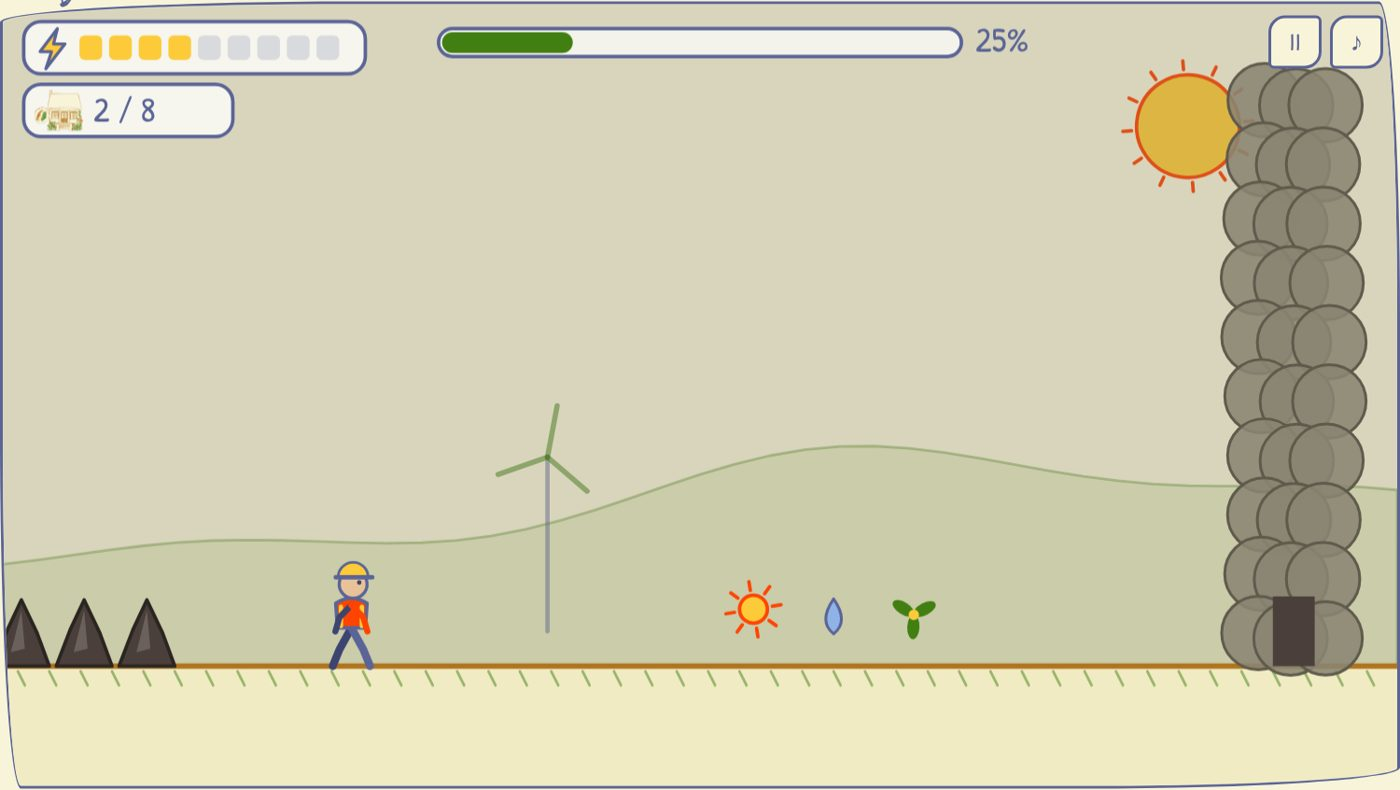
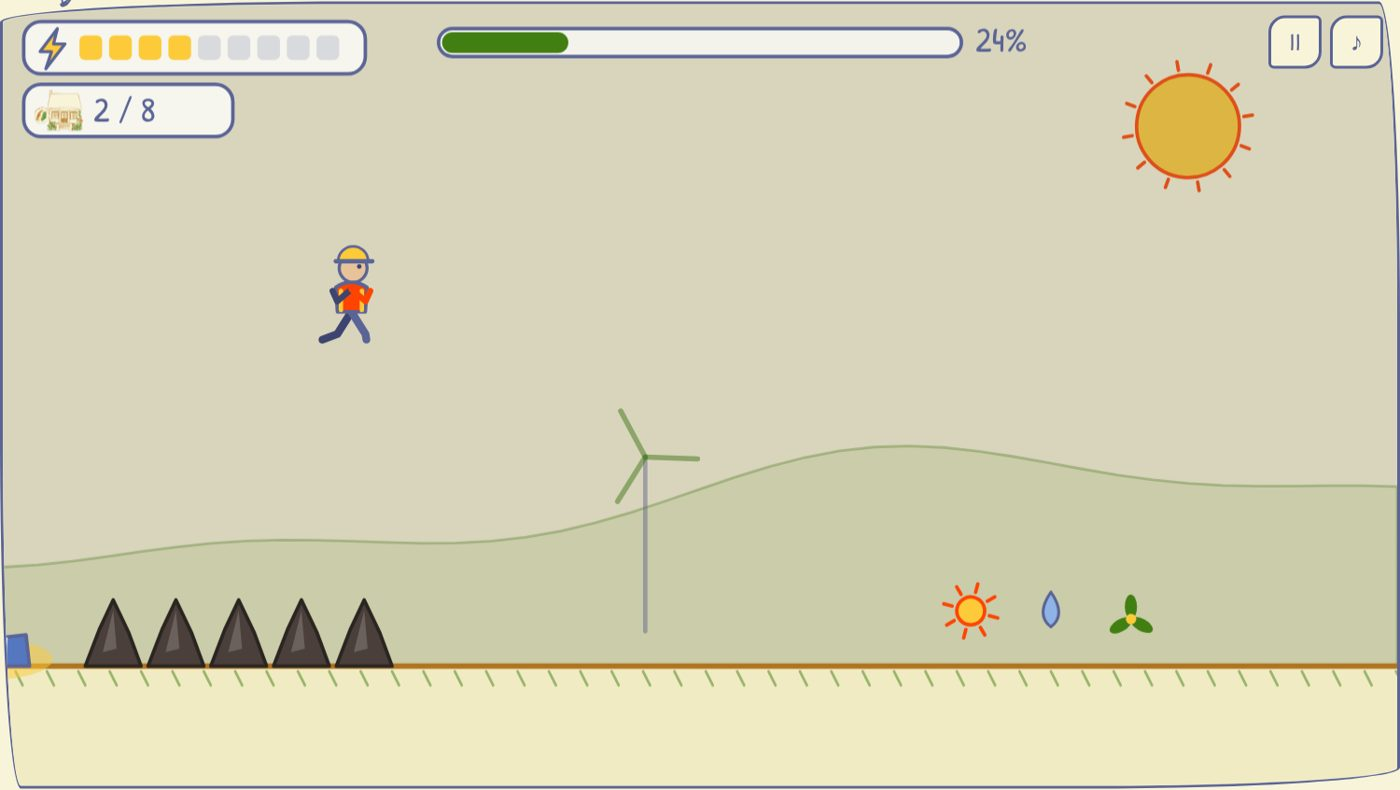
Make English the default language again; fix Marathon block patterns
- Game opens in English (Russian stays as a menu toggle); README in English
- English screenshots for the README
- Marathon: wider blocks before spikes so landing on them is possible
- Autopilot jumps up steps a little earlier

Claude-Session: https://claude.ai/code/session_01WVEpnf3J4V1ut3vL5bSijb

diff --git a/index.html b/index.html
@@ -1,5 +1,5 @@
 <!doctype html>
-<html lang="ru">
+<html lang="en">
 <head>
 <meta charset="utf-8">
 <meta name="viewport" content="width=device-width, initial-scale=1, viewport-fit=cover">
@@ -241,11 +241,12 @@ const FACTS = [
    Save
    ========================================================= */
 const SAVE_KEY = 'light-dash-v1';
-const save = { lang: 'ru', mute: false, skin: 'anya', practice: false, lv: [{}, {}, {}], ach: [],
+const save = { lang: 'en', langChosen: false, mute: false, skin: 'anya', practice: false, lv: [{}, {}, {}], ach: [],
   stats: { energy: 0, walls: 0, attempts: 0, houses: 0, bestM: 0, skinChanged: 0 } };
 try {
   const s = JSON.parse(localStorage.getItem(SAVE_KEY));
   if (s) { Object.assign(save, s); save.stats = Object.assign({ energy: 0, walls: 0, attempts: 0, houses: 0, bestM: 0, skinChanged: 0 }, s.stats); save.lv = [0, 1, 2].map(i => (s.lv && s.lv[i]) || {}); }
+  if (!save.langChosen) save.lang = 'en';
 } catch (e) {}
 const persist = () => { try { localStorage.setItem(SAVE_KEY, JSON.stringify(save)); } catch (e) {} };
 const t = k => T[save.lang][k] ?? k;
@@ -401,12 +402,12 @@ function endlessBuilder() {
     if (r < .16) this.spikes(1 + Math.floor(Math.random() * 3)).gap(g());
     else if (r < .28) this.energy(3).gap(g());
     else if (r < .38) this.pit(130 + Math.floor(Math.random() * 50)).gap(g());
-    else if (r < .48) { this.block(130, 45 + Math.floor(Math.random() * 30)).gap(0).spikes(2).gap(g()); }
+    else if (r < .48) { this.block(280, 45 + Math.floor(Math.random() * 30)).gap(0).spikes(2).gap(g()); }
     else if (r < .58) this.cloud(110 + Math.floor(Math.random() * 30)).gap(g());
     else if (r < .66) { this.energy(2).gap(100).wall().gap(g()); }
     else if (r < .74) { this.pad().gap(40).spikes(4).gap(g()); }
     else if (r < .82) { this.pit(300); this.o.push({ t: 'orb', x: this.x - 300 + 115, y: G - 150, r: 18 }); this.gap(g()); }
-    else if (r < .9) { this.block(120, 45).block(120, 90).gap(0).spikes(2).gap(g()); }
+    else if (r < .9) { this.block(210, 45).block(210, 90).gap(0).spikes(2).gap(g()); }
     else { this.spikes(2).gap(Math.round(v * .8)).spikes(2).gap(g()); }
   };
   return b;
@@ -570,7 +571,7 @@ function autopilot() {
       if (g.b < p.x - 14) continue;
       if (g.a > p.x + 400) break;
       if (g.kind === 'step') {
-        if (g.top < p.y - 4) { const rise = p.y - g.top; const lead = v * (0.05 + rise / 650); if (g.a - front < lead && g.a - front > -4) a.up = true; }
+        if (g.top < p.y - 4) { const rise = p.y - g.top; const lead = v * (0.08 + rise / 520); if (g.a - front < lead && g.a - front > -4) a.up = true; }
         continue;
       }
       if (g.base !== G && p.y !== g.base) continue;
@@ -940,7 +941,7 @@ function menu() {
       <span><kbd>→</kbd>${t('kr')}</span><span><kbd>←</kbd>${t('kl')}</span>
     </div>`);
   on('#mPlay', levels); on('#mSkins', skins); on('#mAch', achievements);
-  on('#mLang', () => { save.lang = save.lang === 'ru' ? 'en' : 'ru'; persist(); applyLang(); menu(); });
+  on('#mLang', () => { save.lang = save.lang === 'ru' ? 'en' : 'ru'; save.langChosen = true; persist(); applyLang(); menu(); });
 }
 
 function levels() {
@@ -1121,6 +1122,16 @@ function applyLang() {
 
 /* Test hook: run a level with the autopilot, without drawing */
 window.__lightDash = {
+  simulateEndless() {
+    const keep = { demo, endless, lvl, run, state };
+    demo = true; endless = true; run = null; newRun(false);
+    let n = 0;
+    while (run.p.alive && n < 120 * 300) { step(STEP, autopilot()); n++; }
+    const p = run.p, near = lvl.objs.filter(o => Math.abs(o.x - p.x) < 260 && o.t !== 'energy').map(o => o.t + '@' + Math.round(o.x - p.x) + (o.w ? '/' + o.w : '') + (o.top ? '^' + (G - o.top) : ''));
+    const res = { m: Math.floor(p.x / 50), y: Math.round(G - p.y), speed: Math.round(run.speed), near: near.join(' ') };
+    demo = keep.demo; endless = keep.endless; lvl = keep.lvl; run = keep.run; state = keep.state;
+    return res;
+  },
   autoplay(v) { autoPlay = !!v; },
   simulate(i, jitter = 0) {
     const keep = { demo, endless, lvl, run, state };

diff --git a/README.md b/README.md
@@ -2,13 +2,12 @@
 
 # ✦ Light Dash ✦
 
-### Раннер про чистую энергию для всех · A runner about clean energy for everyone
+### A runner game about clean energy for everyone
 
 **SDG 7: Affordable and clean energy**
 
-**[▶ Играть / Play](https://n1x-plut0.github.io/sdg-7-/)**
+**[▶ Play in your browser](https://n1x-plut0.github.io/sdg-7-/)**
 
-*Без скачивания и регистрации. Работает на компьютере и на телефоне.*
 *No download, no sign-up. Works on a laptop or a phone.*
 
 <img src="assets/dash-play.jpg" alt="Light Dash: a runner in a hard hat races past dark houses toward a tall wall of coal smog, with sun, water and wind energy to collect" width="820">
@@ -17,37 +16,37 @@
 
 ---
 
-## Беги. Собирай энергию. Зажигай свет.
+## Run. Collect energy. Light up homes.
 
-Около **685 миллионов человек** в мире до сих пор живут без электричества.
-Твой бегун мчится через деревни, холмы и город. Собирай энергию солнца, ветра и воды,
-отдавай её домам без света и пробивайся сквозь угольный смог.
-**Чем больше домов горит, тем чище небо.**
+About **685 million people** in the world still live without electricity.
+Your runner races through villages, hills and a city. Collect energy from the sun, wind and water,
+give it to homes in the dark, and dash through coal smog.
+**The more homes glow, the clearer the sky gets.**
 
-Это и есть Цель устойчивого развития ООН № 7:
-*«Обеспечить доступ к недорогой, надёжной, устойчивой и современной энергии для всех»* к 2030 году.
+That's the UN's Sustainable Development Goal 7:
+*"Ensure access to affordable, reliable, sustainable and modern energy for all"* by 2030.
 
-## Управление стрелками
+## Arrow-key controls
 
-| Клавиша | Что делает |
+| Key | What it does |
 |:---:|---|
-| **↑** (или пробел) | Прыжок. Держи, чтобы прыгать снова. Нажми на жёлтом солнышке в воздухе, чтобы прыгнуть ещё раз. |
-| **↓** | Присесть под облако смога. В воздухе: быстро упасть. |
-| **→** | Рывок сквозь стену смога. Стоит 1 ⚡. |
-| **←** | Зажечь дом рядом с тобой. Стоит 1 ⚡. |
+| **↑** (or Space) | Jump. Hold to keep jumping. Press it on a yellow sun in the air to jump again. |
+| **↓** | Duck under a smog cloud. In the air: drop fast. |
+| **→** | Dash through a smog wall. Costs 1 ⚡. |
+| **←** | Light the home next to you. Costs 1 ⚡. |
 
-На телефоне под экраном есть большие кнопки со стрелками.
+On a phone, use the big arrow buttons under the screen.
 
-## Что внутри
+## What's inside
 
-- **3 уровня по целям SDG 7:** 7.1 «Деревня без света», 7.2 «Ветреные холмы», 7.3 «Умный город».
-- **Марафон 2030:** бесконечный забег. Сможешь пробежать 2030 метров?
-- **8 персонажей:** Аня, Тимур, Инженер Ли, Учёная Амара, Велокурьер Нико, Ночная смена, Солнечная Зара и Ватт, лампочка из нашей презентации.
-- **13 ачивок,** которые открывают новых персонажей.
-- **9 звёзд-фактов,** спрятанных в уровнях. Каждая открывает настоящий факт о SDG 7.
-- **Тренировка:** возрождение на флажках, чтобы спокойно выучить уровень.
-- **Демо в меню:** пока ты в меню, бегун сам проходит уровень на фоне.
-- Русский и английский языки.
+- **3 levels based on SDG 7 targets:** 7.1 "Village in the dark", 7.2 "Windy hills", 7.3 "Smart city".
+- **Marathon 2030:** an endless run. Can you make it 2030 meters?
+- **8 runners:** Anya, Timur, Engineer Li, Scientist Amara, Courier Niko, Night shift, Sunny Zara, and Watt, the light bulb from our presentation.
+- **13 achievements** that unlock new runners.
+- **9 fact stars** hidden in the levels. Each one reveals a real fact about SDG 7.
+- **Practice mode:** respawn at checkpoint flags while you learn a level.
+- **Menu demo:** while you're in the menu, a runner plays the level in the background.
+- English and Russian.
 
 <div align="center">
 <img src="assets/dash-skins.jpg" alt="The runner selection screen with eight hand-drawn characters" width="600">
@@ -55,48 +54,37 @@
 <img src="assets/dash-marathon.jpg" alt="Marathon mode: a lit house glows warmly, and the sky is clear of smog" width="600">
 </div>
 
-## Факты из игры
+## Facts from the game
 
-- Около 80% людей без электричества живут в Африке южнее Сахары.
-- Около 2,1 миллиарда человек готовят еду на дровах, угле или керосине.
-- С 2010 по 2020 год солнечное электричество подешевело примерно на 90%.
-- LED-лампа тратит примерно на 75–80% меньше электричества, чем лампа накаливания.
+- About 80% of people without electricity live in sub-Saharan Africa.
+- About 2.1 billion people cook with wood, coal or kerosene.
+- From 2010 to 2020, electricity from solar panels got about 90% cheaper.
+- An LED bulb uses about 75–80% less electricity than an old incandescent bulb.
 
-…и ещё 5 фактов ждут тебя в уровнях.
-
----
-
-## English
-
-**Run. Collect energy. Light up homes.** About 685 million people still live without electricity.
-Your runner races through villages, hills and a city. Collect energy from sun, wind and water,
-give it to homes in the dark, and dash through coal smog. The more homes glow, the clearer the sky.
-
-**Arrow keys:** ↑ jump (and bounce off suns in the air), ↓ duck under smog or drop fast, → dash through smog walls (1 ⚡), ← light the home next to you (1 ⚡).
-
-3 levels based on SDG 7 targets, an endless Marathon 2030 mode, 8 runners to unlock, 13 achievements and 9 hidden fact stars.
+…and 5 more facts are waiting in the levels.
 
 ---
 
-## Ещё одна игра: Light the Valley
+## Another game: Light the Valley
 
-Наша первая игра: спокойная стратегия, где ты строишь солнечные, ветряные и гидростанции для долины с 2021 по 2030 год.
-**[▶ Играть в Light the Valley](https://n1x-plut0.github.io/sdg-7-/valley.html)**
+Our first game is a calm strategy game: build solar, wind and hydro power for a valley from 2021 to 2030.
+**[▶ Play Light the Valley](https://n1x-plut0.github.io/sdg-7-/valley.html)**
 
 <img src="assets/promo-play.jpg" alt="Light the Valley: a hand-drawn map with solar farms, wind turbines and homes" width="520">
 
-## Как запустить у себя
+## Play locally
 
-Скачай или склонируй репозиторий и открой `index.html` в браузере. Больше ничего не нужно.
+Download or clone this repo and open `index.html` in any browser. That's it.
 
-## Шрифты
+## Fonts
 
-Игры оформлены как наша презентация: **Biro Script Plus** для заголовков и **Linotype Feltpen** для текста.
-Это платные шрифты, поэтому их файлов **нет** в репозитории. Если шрифты установлены на компьютере,
-игра использует их сама. Можно также положить лицензионные файлы в `assets/fonts/`
-(`BiroScriptPlus.woff2` и `LinotypeFeltpen.woff2`). Без них игра использует бесплатные Caveat, Patrick Hand и Neucha.
+The games are styled after our class presentation and use **Biro Script Plus** (headings) and
+**Linotype Feltpen** (text). These are licensed fonts, so they are **not** included in this repo.
+If they're installed on your computer, the games use them automatically. You can also put licensed
+web font files in `assets/fonts/`, named `BiroScriptPlus.woff2` and `LinotypeFeltpen.woff2`.
+Without them, the games fall back to the free Google Fonts Caveat, Patrick Hand and Neucha.
 
-## Авторы и источники
+## Credits
 
-- Рисунки дома, солнечной панели, LED-лампы, приборов и звёзд взяты из нашей презентации о SDG 7.
-- Факты: Цели устойчивого развития ООН, SDG 7 (задачи 7.1, 7.2, 7.3, 7.b), отчёт *Tracking SDG 7*.
+- Drawings of the house, solar panel, LED bulb, appliances and stars come from our SDG 7 presentation.
+- Facts: UN Sustainable Development Goals, SDG 7 targets 7.1, 7.2, 7.3 and 7.b, and the *Tracking SDG 7* report.
